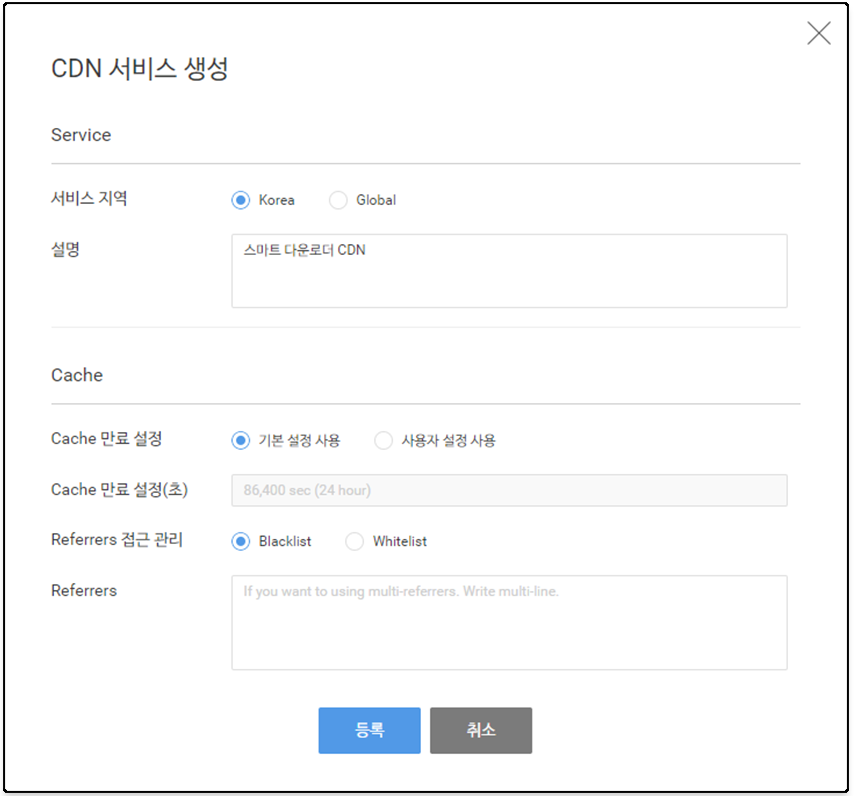
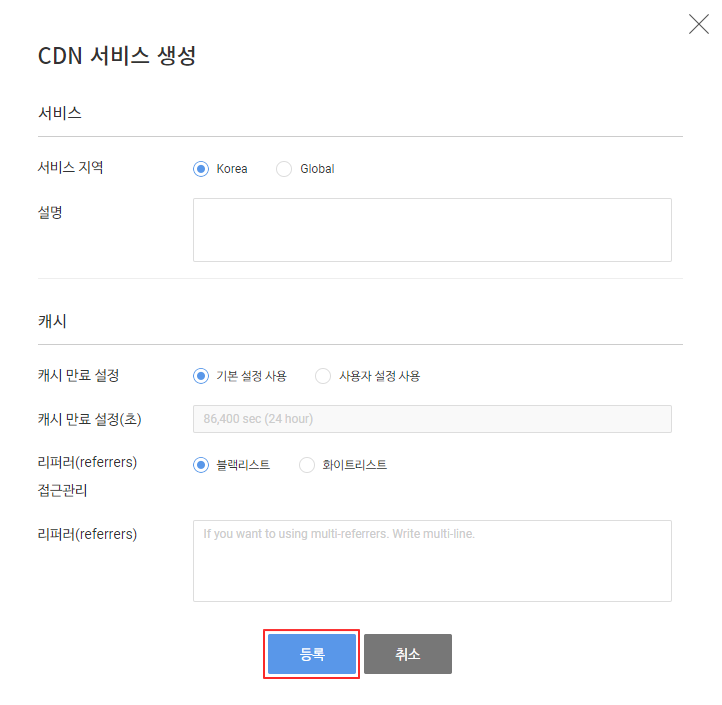
Modify image and creation date

diff --git a/site/05.rst b/site/05.rst
@@ -11,11 +11,11 @@
 3. 업로드할 리소스가 있는 폴더를 선택
 
     .. image:: _static/image/service-upload-02.png
-
+    
 4. 업로드 완료 후 결과가 출력되면 확인 후 **완료** 선택
 
     .. image:: _static/image/service-upload-03.png
 
 5. 서비스 목록 화면으로 돌아가고 생성된 서비스 확인
 
-    .. image:: _static/image/service-upload-04.png
+    .. image:: _static/image/service-create-completed.png

diff --git a/site/04.rst b/site/04.rst
@@ -7,7 +7,7 @@ CDN 연동
 2. **Smart Downloader CDN 연동** 선택
 
     .. image:: _static/image/service-cdn-01.png
-
+    
 3. CDN 서비스 생성 팝업이 출력되고 **등록** 선택
 (설정을 변경하려면 `가이드 <http://docs.toast.com/ko/Game/Smart%20Downloader/ko/console-guide/#2-cdn>`_\를 확인 바랍니다.)
 

diff --git a/site/index.rst b/site/index.rst
@@ -5,7 +5,7 @@ Smart Downloader: 서비스 생성하기
 * 카테고리: Game
 * 레벨: 초급
 * 시간: 10분
-* 업데이트: `날짜기입`
+* 업데이트: 2019.10.29
 
 
 .. toctree:: 
